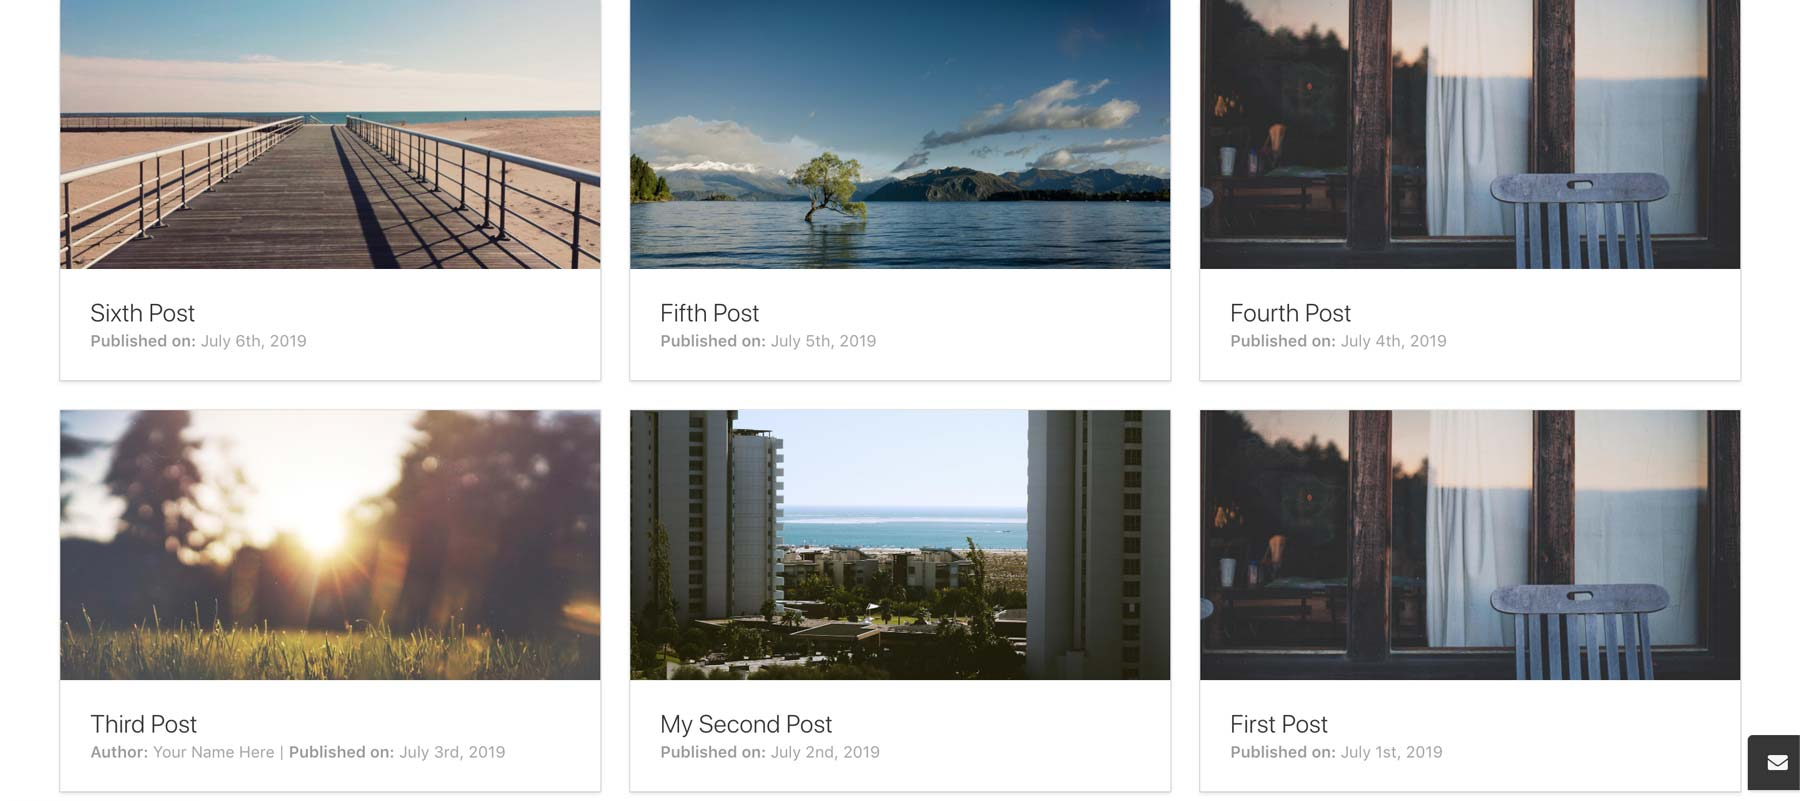
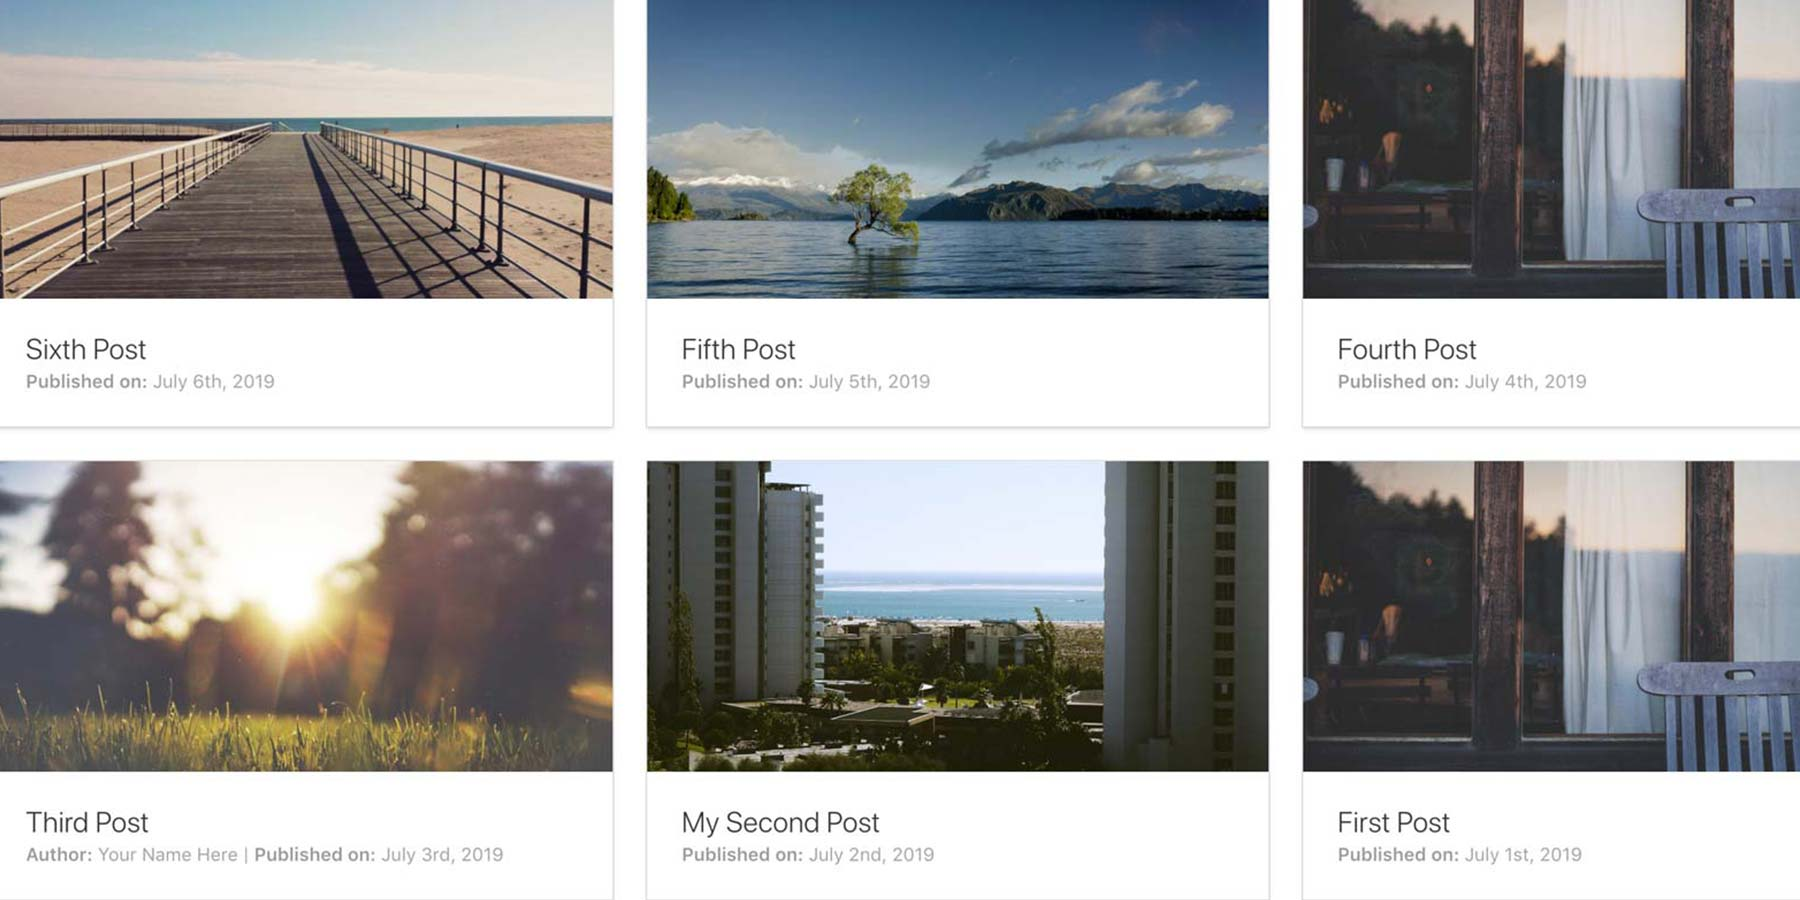
option to load comments on button click and added purge css

diff --git a/pages/_singlePost.vue b/pages/_singlePost.vue
@@ -20,32 +20,13 @@
       <template v-slot:default>
         <div class="post-wrapper">
           <markdown :markdown="$store.state.content" />
-          <vue-disqus
-            v-if="$siteConfig.disqus.on && $siteConfig.disqus.siteShortName"
-            :shortname="$siteConfig.disqus.siteShortName"
-            :identifier="$route.params.singlePost"
-          />
-          <div
-            v-if="$siteConfig.disqus.on && !$siteConfig.disqus.siteShortName"
-            class="notification is-danger"
-          >
-            Disqus site short name is required!
-          </div>
-          <div
-            :class="
-              `other-posts ${
-                $siteConfig.posts.withSidebar ||
-                $siteConfig.posts.theme !== 'columns'
-                  ? ''
-                  : 'box'
-              }`
-            "
-          >
+          <div class="other-posts">
             <h6 class="subtitle is-size-4">
               Related Posts
             </h6>
             <related-posts :number="3" :category="category" :exclude="slug" />
           </div>
+          <disqus-comments :identifier="$route.params.singlePost" />
         </div>
       </template>
       <template v-slot:sidebar>
@@ -64,8 +45,16 @@ import Markdown from '~/components/Markdown'
 import RelatedPosts from '~/components/grids/PostsGrid'
 import PostSidebar from '~/components/PostSidebar'
 import MainSection from '~/components/MainSection'
+import DisqusComments from '~/components/DisqusComments'
 export default {
-  components: { SiteHero, Markdown, RelatedPosts, PostSidebar, MainSection },
+  components: {
+    SiteHero,
+    Markdown,
+    RelatedPosts,
+    PostSidebar,
+    MainSection,
+    DisqusComments
+  },
   head() {
     return {
       title: `${this.$store.state.title} | ${this.$siteConfig.siteName}`,

diff --git a/components/DisqusComments.vue b/components/DisqusComments.vue
@@ -1,0 +1,45 @@
+<template>
+  <div v-if="$siteConfig.disqus.on" class="comments-wrapper section">
+    <a
+      v-if="$siteConfig.disqus.loadingStrategy === 'button' && !displayed"
+      class="button is-fullwidth is-outlined is-large"
+      @click="displayed = true"
+    >
+      Load Comments
+    </a>
+    <intersection-observer
+      v-if="$siteConfig.disqus.loadingStrategy === 'lazy'"
+      @view="displayed = true"
+    />
+    <vue-disqus
+      v-if="
+        $siteConfig.disqus.siteShortName &&
+          (displayed || $siteConfig.disqus.loadingStrategy === 'onload')
+      "
+      :shortname="$siteConfig.disqus.siteShortName"
+      :identifier="identifier"
+    />
+
+    <!-- Warning to Provide Disqus Site Short Name -->
+    <div
+      v-if="$siteConfig.disqus.on && !$siteConfig.disqus.siteShortName"
+      class="notification is-danger"
+    >
+      Disqus site short name is required!
+    </div>
+  </div>
+</template>
+<script>
+import IntersectionObserver from '~/components/IntersectionObserver'
+export default {
+  components: { IntersectionObserver },
+  props: {
+    identifier: { type: String, required: true }
+  },
+  data() {
+    return {
+      displayed: false
+    }
+  }
+}
+</script>

diff --git a/config/build.js b/config/build.js
@@ -1,10 +1,44 @@
+import purgecss from '@fullhuman/postcss-purgecss'
+import css from './css'
 export default {
   postcss: {
     preset: {
       features: {
         customProperties: false
       }
-    }
+    },
+    plugins: [
+      purgecss({
+        content: [
+          './pages/**/*.vue',
+          './layouts/**/*.vue',
+          './components/**/*.vue'
+        ],
+        css: css,
+        whitelist: [
+          'html',
+          'body',
+          'is-1by1',
+          'is-5by4',
+          'is-5by4',
+          'is-4by3',
+          'is-3by2',
+          'is-5by3',
+          'is-16by9',
+          'is-2by1',
+          'is-3by1',
+          'is-4by5',
+          'is-3by4',
+          'is-2by3',
+          'is-3by5',
+          'is-9by16',
+          'nuxt__build_indicator',
+          '__nuxt',
+          'svg'
+        ],
+        whitelistPatterns: [/theme/g, /spinner-position/, /fa/]
+      })
+    ]
   },
 
   // extend webpack config here

diff --git a/components/grids/ResourceGrid.vue b/components/grids/ResourceGrid.vue
@@ -1,15 +1,17 @@
 <template>
-  <presentational-grid
-    :items="resources"
-    :bottom-loader="!allLoaded && firstPageLoaded"
-    :theme="theme"
-    :per-row="perRow"
-    @atEnd="loadMore()"
-  >
-    <template v-slot:default="{ item }">
-      <slot :item="item"></slot>
-    </template>
-  </presentational-grid>
+  <div>
+    <presentational-grid
+      :items="resources"
+      :bottom-loader="!allLoaded && firstPageLoaded"
+      :theme="theme"
+      :per-row="perRow"
+      @atEnd="loadMore()"
+    >
+      <template v-slot:default="{ item }">
+        <slot :item="item"></slot>
+      </template>
+    </presentational-grid>
+  </div>
 </template>
 
 <script>

diff --git a/components/IntersectionObserver.vue b/components/IntersectionObserver.vue
@@ -6,11 +6,16 @@
 export default {
   name: 'IntersectionObserver',
   mounted() {
-    const observer = new IntersectionObserver(() => {
-      this.$emit('view')
-      setTimeout(() => {
-        if (this.stillInViewport()) this.$emit('view')
-      }, 3000)
+    const observer = new IntersectionObserver((e) => {
+      if (e[0].isIntersecting) {
+        this.$emit('view')
+        let times = 0
+        const interval = setInterval(() => {
+          if (this.stillInViewport()) this.$emit('view')
+          if (times === 6) clearInterval(interval)
+          times++
+        }, 3000)
+      }
     })
     observer.observe(this.$el)
   },

diff --git a/config/_siteConfig.js b/config/_siteConfig.js
@@ -40,12 +40,13 @@ export default {
   // Card Layout
   cards: {
     imageDimensions: '2x1', // Options: 1x1, 5x4, 4x3, 3x2, 5x3, 16x9, 2x1, 3x1, 4x5, 3x4, 2x3, 3x5, 9x16
-    theme: 'grid' // Options: boxes, grid, image-grid
+    theme: 'boxes' // Options: boxes, grid, image-grid
   },
 
   // Disqus
   disqus: {
     on: true,
+    loadingStrategy: 'button', // Options: onload, lazy, button
     siteShortName: 'blog-danielkelly-io' // 'blog-danielkelly-io'
   },
 

diff --git a/config/modules.js b/config/modules.js
@@ -36,7 +36,7 @@ export const modulesSettings = {
     port: url ? url.port : null
   },
   responsiveLoader: {
-    name: 'img/[hash:7]-[width].[ext]',
+    name: 'uploads/[hash:7]-[width].[ext]',
     min: 640, // minimum image width generated
     max: 1800, // maximum image width generated
     steps: 4, // five sizes per image will be generated

diff --git a/components/grids/PresentationalGrid.vue b/components/grids/PresentationalGrid.vue
@@ -1,5 +1,6 @@
 <template>
   <div :class="`grid grid-theme-${theme || 'blocks'}`">
+    <intersection-observer v-if="items.length === 0" @view="$emit('atEnd')" />
     <div class="columns items is-multiline">
       <div
         v-for="(item, index) in itemsComputed"

diff --git a/assets/scss/_transitions.scss b/assets/scss/_transitions.scss
@@ -1,3 +1,4 @@
+/* purgecss start ignore */
 .page-enter-active,
 .page-leave-active {
   transition-property: opacity;
@@ -27,4 +28,4 @@
   opacity:0;
   filter: blur(10px);
 }
-
+/* purgecss end ignore */

diff --git a/assets/scss/_animations.scss b/assets/scss/_animations.scss
@@ -1,3 +1,4 @@
+/* purgecss start ignore */
 @keyframes blurInGrayscale {
   0%{
     filter:blur(40px) grayscale(0);
@@ -19,3 +20,4 @@
     transform:scaleX(1)
   }
 }
+/* purgecss end ignore */

diff --git a/assets/scss/_layout.scss b/assets/scss/_layout.scss
@@ -1,3 +1,4 @@
+/* purgecss start ignore */
 .site-layout-width-full{
   .container{
     max-width:100% !important;
@@ -11,3 +12,4 @@
     padding:0;
   }
 }
+/* purgecss end ignore */

diff --git a/assets/scss/_util.scss b/assets/scss/_util.scss
@@ -1,3 +1,5 @@
+/* purgecss start ignore */
 .subtle-box-shadow{
   box-shadow: 0 1px 1px 1px rgba(0, 0, 0, 0.1);
 }
+/* purgecss end ignore */
